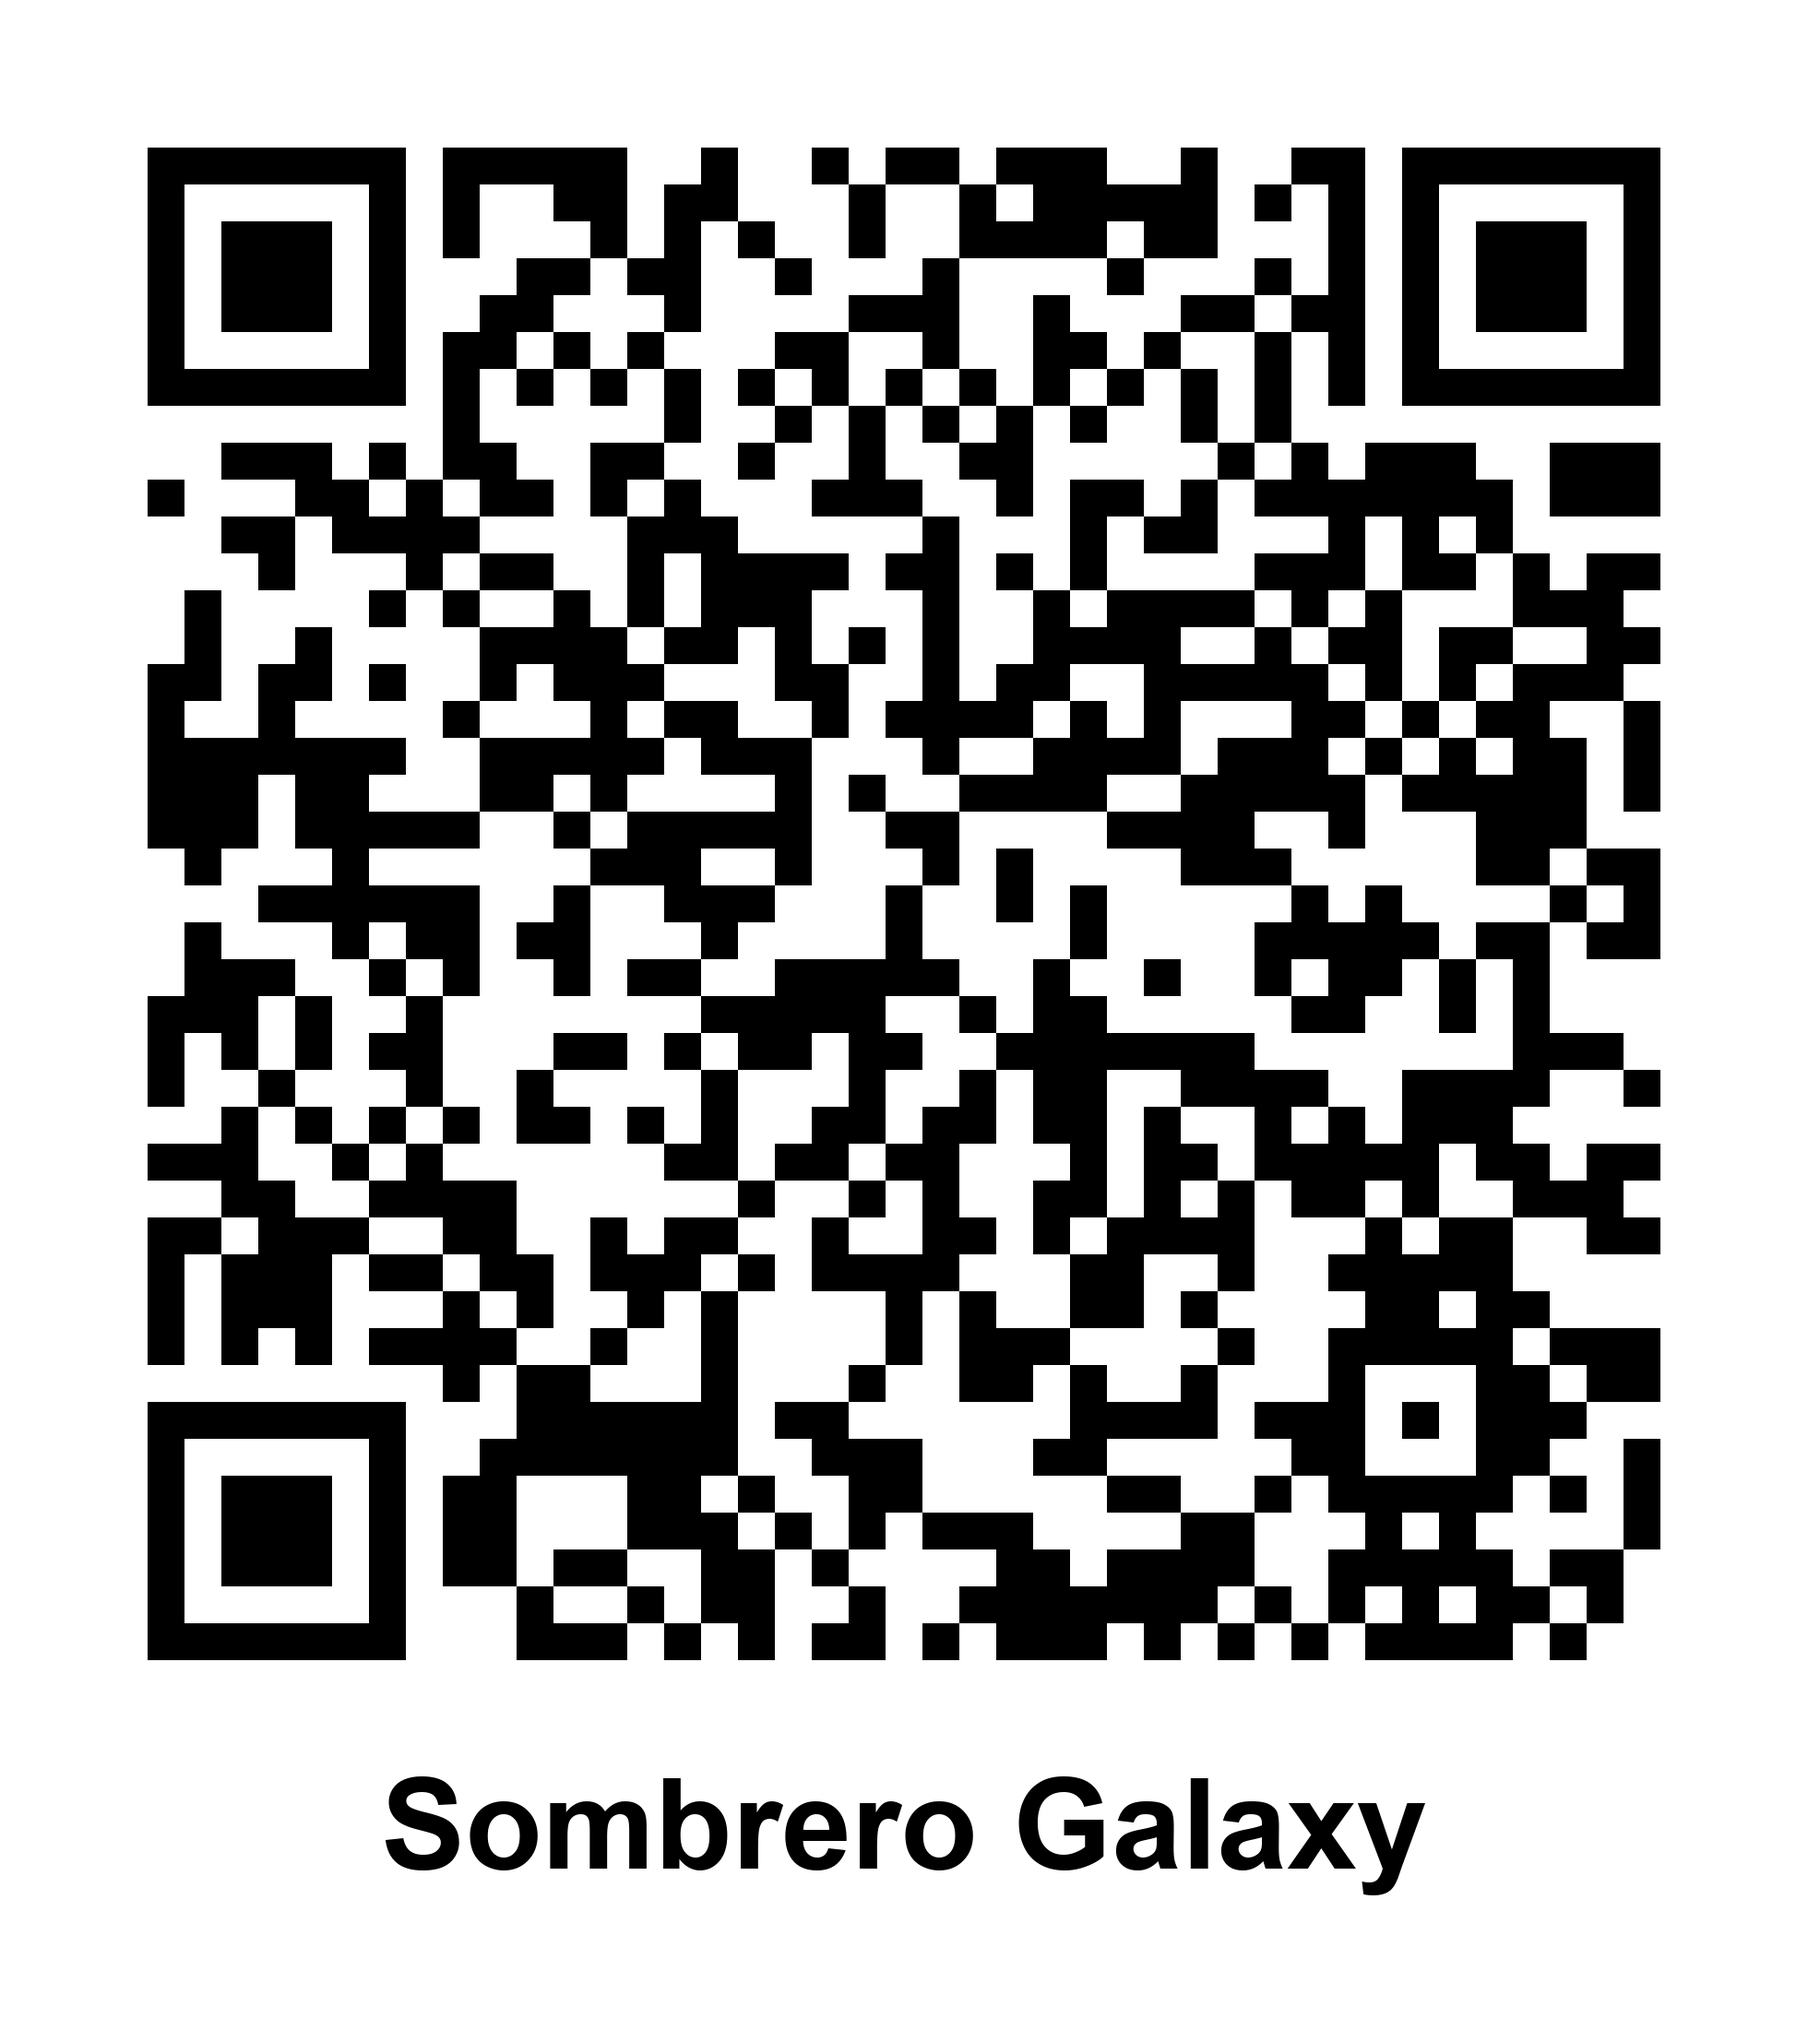
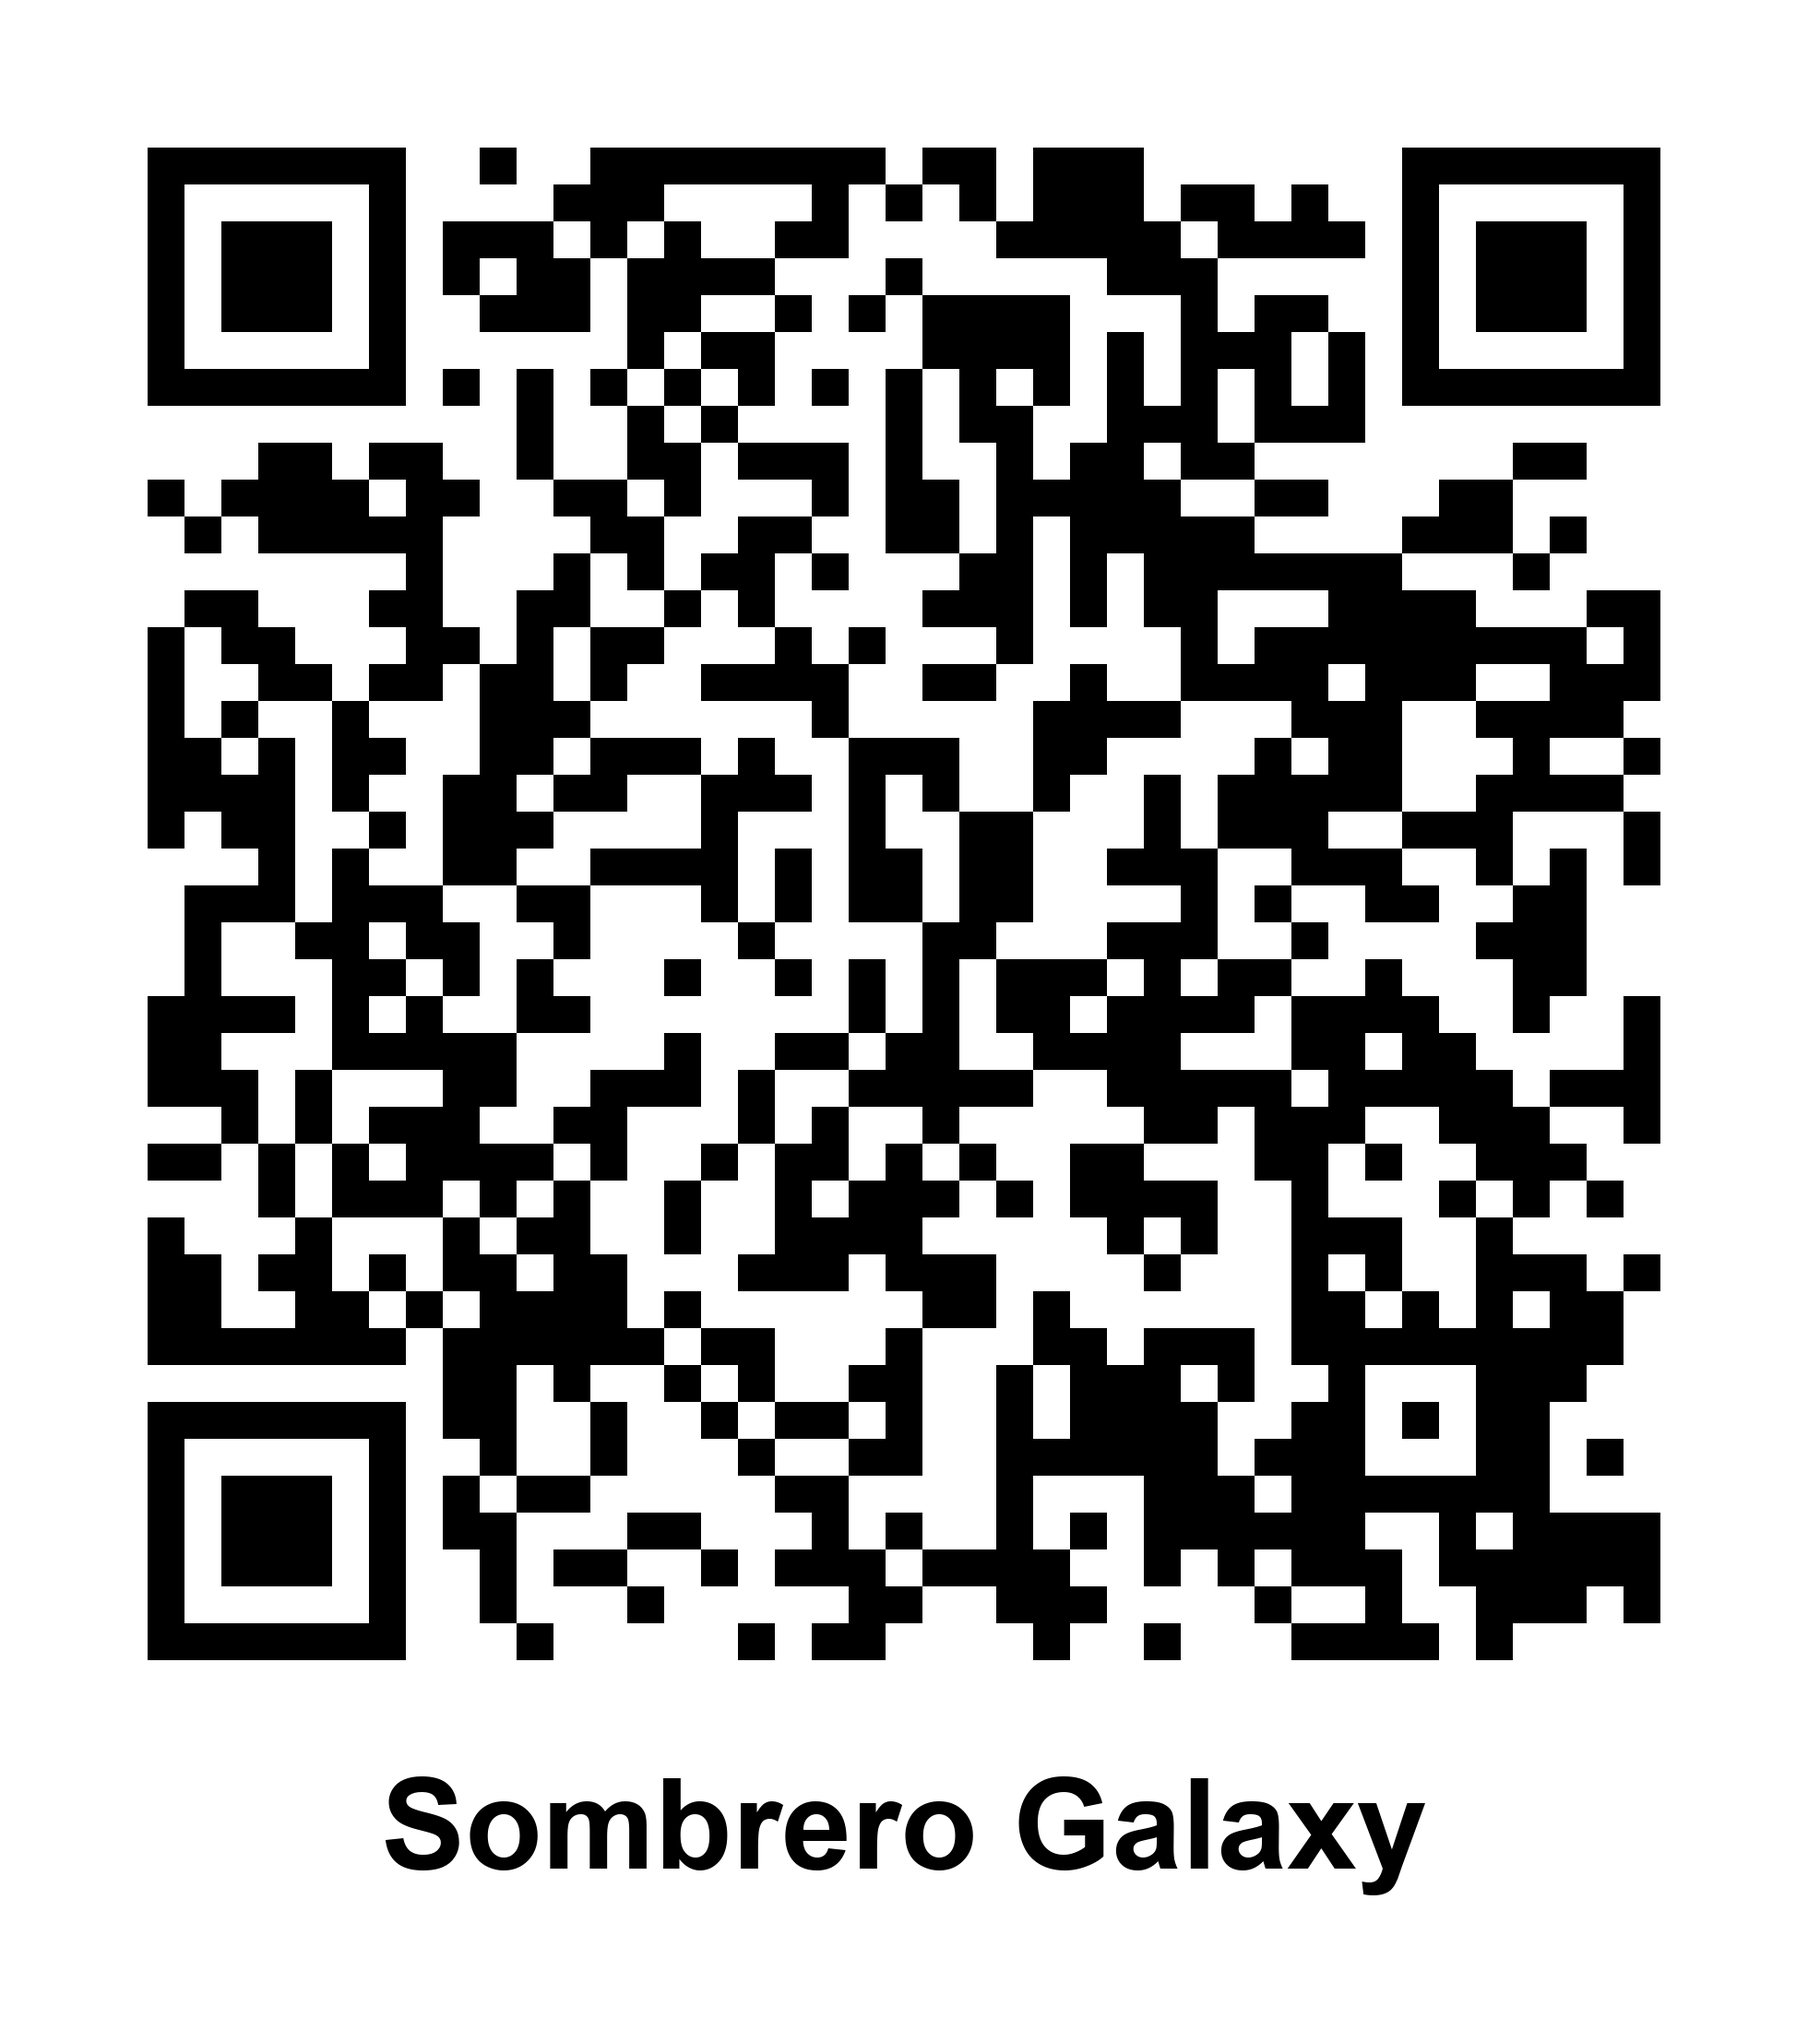
track qr code scan

Changed region(s): [[0.0622, 0.0623, 0.9337, 0.8103]]

diff --git a/assets/i18n.js b/assets/i18n.js
@@ -46,6 +46,31 @@
     apply(pick());
   };
 
+  // Count sticker scans separately.
+  // The QR codes on the stickers open the page with "?qr" at the end of the address.
+  // We remove "?qr" from the address right away (so shared links are not counted as scans)
+  // and send one extra "qr-scan-<galaxy>" event to GoatCounter.
+  (function countStickerScan() {
+    try {
+      var params = new URLSearchParams(location.search);
+      if (!params.has("qr")) return;
+      var parts = location.pathname.split("/").filter(Boolean);
+      var slug = parts.length ? parts[parts.length - 1] : "home";
+      if (/\.html$/.test(slug)) slug = parts.length > 1 ? parts[parts.length - 2] : "home";
+      params.delete("qr");
+      var rest = params.toString();
+      history.replaceState(null, "", location.pathname + (rest ? "?" + rest : "") + location.hash);
+      var tries = 0;
+      (function send() {
+        if (window.goatcounter && window.goatcounter.count) {
+          window.goatcounter.count({ path: "qr-scan-" + slug, title: "Sticker scan: " + slug, event: true });
+        } else if (tries++ < 40) {
+          setTimeout(send, 250);
+        }
+      })();
+    } catch (e) {}
+  })();
+
   // Tap the big galaxy picture to make it spin fast for a moment.
   window.initSpinner = function () {
     var spinner = document.getElementById("spinner");

diff --git a/tools/make_qr.py b/tools/make_qr.py
@@ -57,7 +57,8 @@ def load_font(size):
 
 
 def make_codes(galaxy):
-    url = BASE_URL + galaxy["slug"] + "/"
+    # "?qr" marks visits that come from a sticker, so they are counted as scans
+    url = BASE_URL + galaxy["slug"] + "/?qr"
     label = galaxy["names"].get(LABEL_LANG) or galaxy["slug"]
 
     # H = highest error correction: still scans if the sticker gets scratched

diff --git a/README.md b/README.md
@@ -22,8 +22,9 @@ Each spinner gets a sticker with a QR code that opens the page of its galaxy.
 
 ## QR codes
 
-Each QR code points to the address of the galaxy folder, for example
-`https://handsonspace.github.io/galaxies/sombrero/`.
+Each QR code points to the address of the galaxy folder with `?qr` at the end, for example
+`https://handsonspace.github.io/galaxies/sombrero/?qr`.
+The `?qr` lets the statistics count sticker scans separately (see below).
 You can add `#fr`, `#it` or `#en` at the end of the address to force a language.
 
 The script `tools/make_qr.py` makes the codes for you from the list in `assets/galaxies.js`:
@@ -43,6 +44,9 @@ Every page needs this line just before `</body>`, so copy it into each new galax
 ```
 <script data-goatcounter="https://handsonspace.goatcounter.com/count" async src="https://gc.zgo.at/count.js"></script>
 ```
+
+Sticker scans appear in GoatCounter as separate events called `qr-scan-sombrero`, `qr-scan-whirlpool` and so on.
+Normal page visits are counted as usual, so you can compare scans with all visits.
 
 ## Image credits
 
